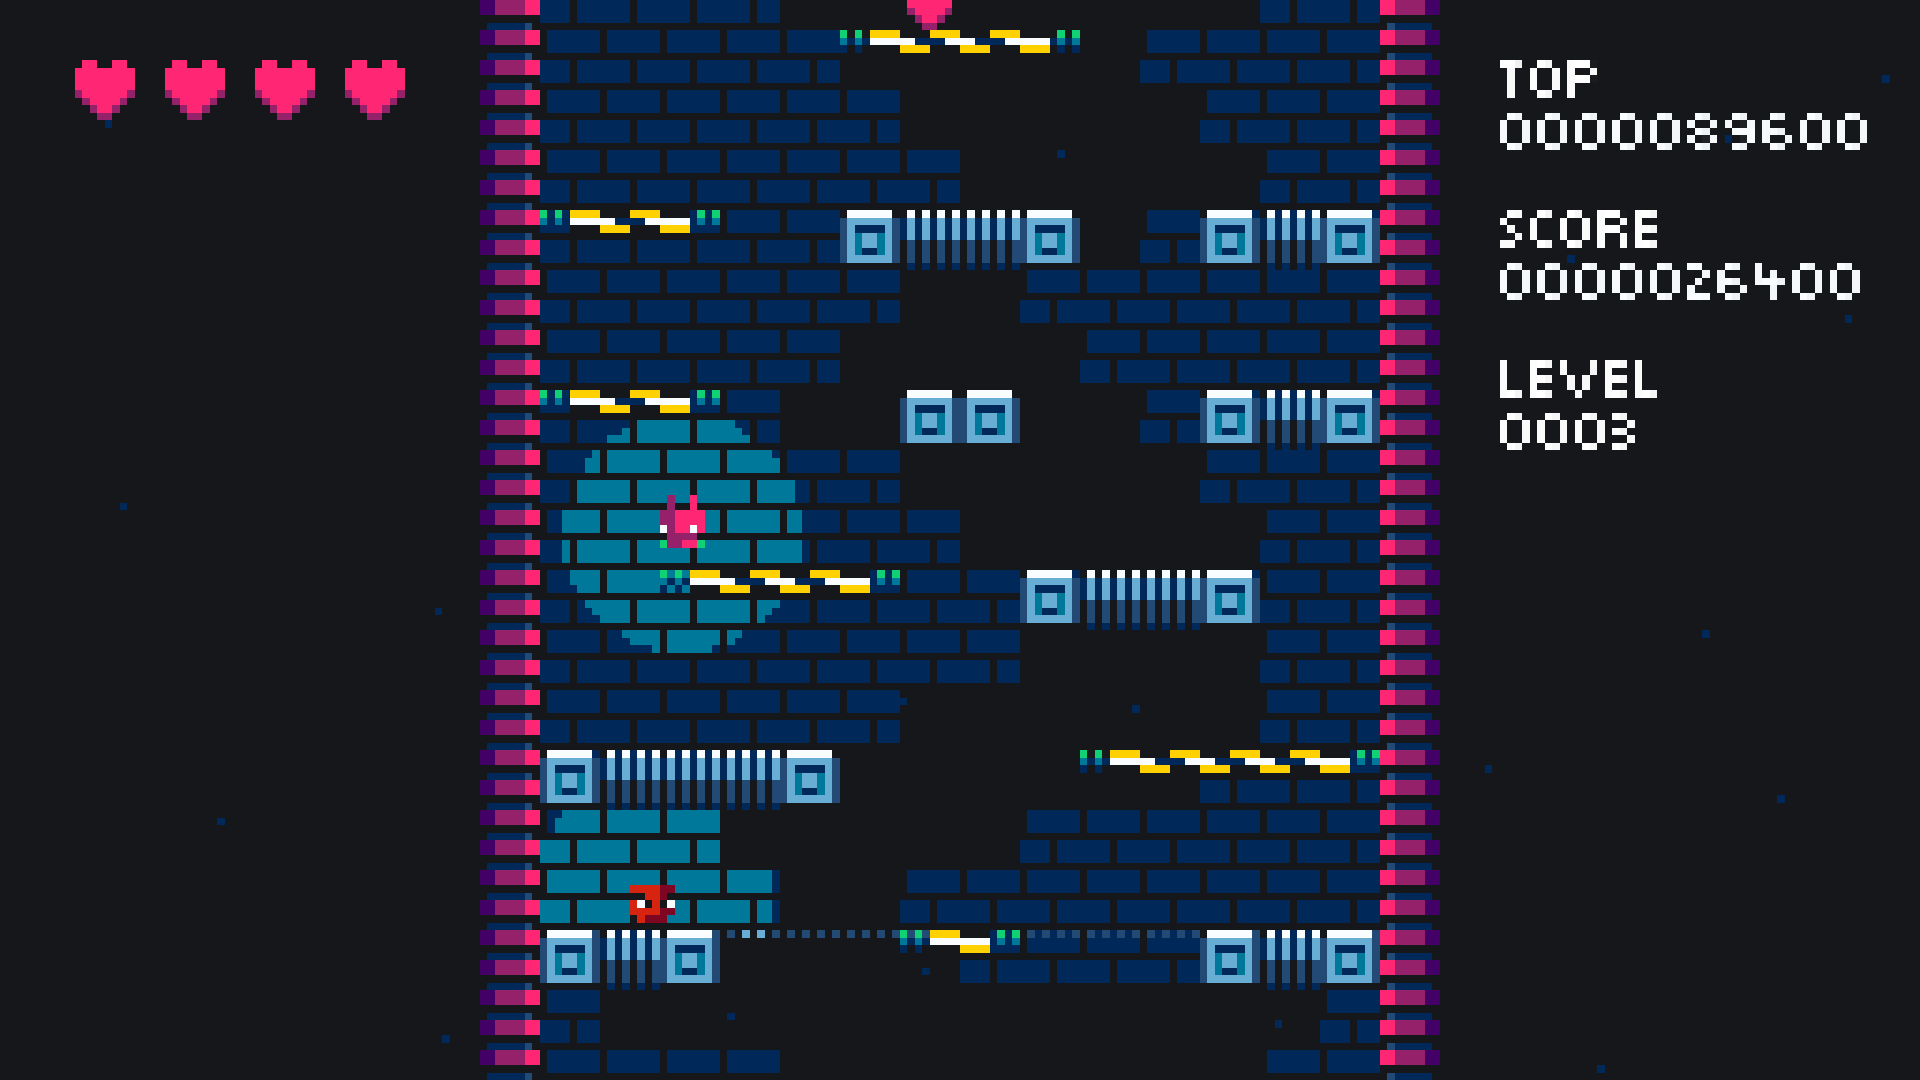
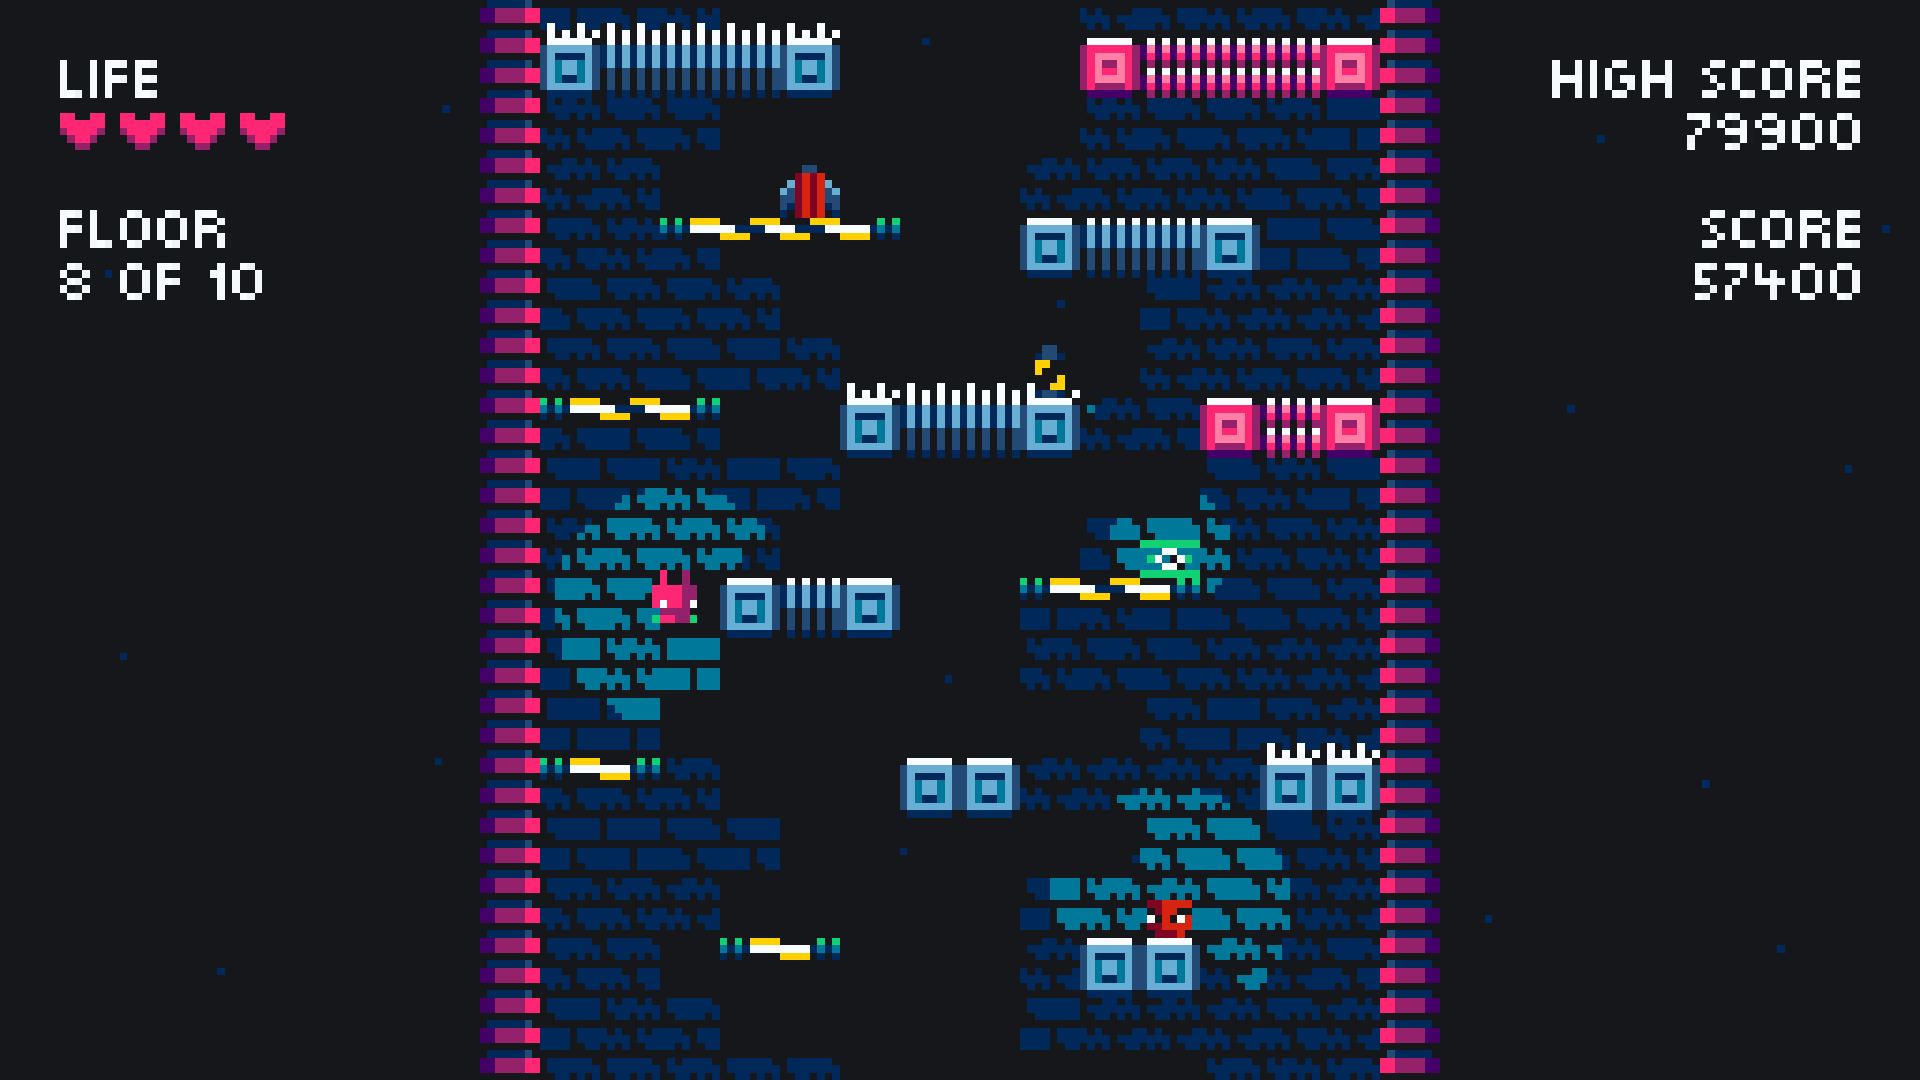
Add v1.0.0 post. Update DROID7 description

diff --git a/content/blog/00018-droid7-v100/index.eo.md b/content/blog/00018-droid7-v100/index.eo.md
@@ -1,0 +1,24 @@
+---
+title: DROID7 V1.0.0
+date: 2020-11-02T01:29:03-03:00
+description: Nun DROID7 devas batali kontraŭ sia kreinto por sia libereco
+tags: [droid7, pikselarto, platforma]
+authors: [juancolacelli]
+---
+
+[DROID7]({{< ref "/games/droid7" >}}) estis *senfina ludo* ekde la komenco, sed nun ĝi havas limigitajn 10 etaĝojn de malfacileco, kaj batalon kontraŭ ĝia kreinto (Dok).
+
+[DROID7]({{< ref "/games/droid7" >}}) 1.0.0 versio havas la jenanjn ludon ŝanĝojn:
+
+Ludado
+
+* Ĝi ne plu estas senfina ludo
+* Etaĝo 10 estas la maksimuma etaĝo
+* Post kiam vi forlasis la konstruaĵon, **vi batalos kontraŭ kreinto de DROID7 (Dok)**
+
+Ĝeneralaj ŝanĝoj
+
+* Ludo tute **tradukita al la hispana kaj Esperanto**
+* Nova ŝprucekrano estis aldonita al la ludo
+* Kredita ekrano estis aldonita
+* Pluraj cimsolvoj

diff --git a/content/blog/00018-droid7-v100/index.es.md b/content/blog/00018-droid7-v100/index.es.md
@@ -1,0 +1,24 @@
+---
+title: DROID7 V1.0.0
+date: 2020-11-02T01:29:03-03:00
+description: Ahora DROID7 tiene que pelear contra su creador por su libertad
+tags: [droid7, pixelart, plataforma]
+authors: [juancolacelli]
+---
+
+[DROID7]({{< ref "/games/droid7" >}}) ha sido un _videojuego infinito_ desde el principio, pero ahora tiene un límite de 10 pisos de dificulta, y una pelea contra su creaodr (Doc).
+
+[DROID7]({{< ref "/games/droid7" >}}) 1.0.0 cuenta con los siguientes cambios:
+
+Juego
+
+* Ya no es un juego sin fin
+* El piso 10 es el máximo
+* Una vez que sales del edificio, deberás **pelear contra el creador de DROID7 (Doc)**
+
+Cambios generales
+
+* Juego completamente **traducido a Español y Esperanto**
+* Nueva pantalla de inicio
+* Se agregó la pantalla de créditos
+* Severos arreglos de errores

diff --git a/content/blog/00018-droid7-v100/index.en.md b/content/blog/00018-droid7-v100/index.en.md
@@ -1,0 +1,24 @@
+---
+title: DROID7 V1.0.0
+date: 2020-11-02T01:29:03-03:00
+description: Now DROID7 has to fight versus its creator for its freedom
+tags: [droid7, pixelart, platformer]
+authors: [juancolacelli]
+---
+
+[DROID7]({{< ref "/games/droid7" >}}) has been an _endless game_ since the beginning, but now it’s limited 10 floors of difficulty, and a fight versus its creator (Doc).
+
+[DROID7]({{< ref "/games/droid7" >}}) 1.0.0 release has the following game changes:
+
+Gameplay
+
+* It’s not an endless game anymore
+* Floor 10 is the maximum floor
+* Once you left the building you will **fight versus DROID7 creator (Doc)**
+
+General changes
+
+* Game completely **translated to Spanish and Esperanto**
+* New splash screen has been added to the game
+* Credits screen has been added
+* Several bug fixes

diff --git a/content/games/droid7/index.es.md b/content/games/droid7/index.es.md
@@ -7,7 +7,7 @@ tags: [droid7]
 url: /es/videojuegos/droid7
 ---
 
-**DROID7** es un **juego de plataformas infinito**, en el que hay que saltar hacia arriba en una torre generada sin fin mientras un rayo láser te persigue desde abajo.
+**DROID7** es un **juego de plataformas**, en el que hay que saltar hacia arriba en una torre generada mientras un rayo láser te persigue desde abajo.
 
 Cuanto más alto vas, más rápido se vuelve, y no pasa mucho tiempo antes de que desaparezcan (y reaparezcan) plataformas y picos que se introducen para hacer tu vida más difícil.
 

diff --git a/content/games/droid7/index.en.md b/content/games/droid7/index.en.md
@@ -6,7 +6,7 @@ description: Escape or die, it's your choice
 tags: [droid7]
 ---
 
-**DROID7** is an **infinite pixel platformer**, jump your way up on endlessly generated tower while a laser beam chases you from below.
+**DROID7** is an **platformer**, jump your way up on a generated tower while a laser beam chases you from below.
 
 The higher you go, the faster it gets, and isn't long before disappearing (and reappearing) platforms and spikes are introduced to make your life harder.
 

diff --git a/content/games/droid7/index.eo.md b/content/games/droid7/index.eo.md
@@ -7,7 +7,7 @@ tags: [droid7]
 url: /eo/videoludoj/droid7
 ---
 
-**DROID7** estas **senfina piksela platformo**, saltu sur senfine generita turo dum lasera radio persekutas vin de sube.
+**DROID7** estas **platformo**, saltu sur generita turo dum lasera radio persekutas vin de sube.
 
 Ju pli vi altas, des pli rapide ĝi fariĝas, kaj ne longe antaŭ malaperi (kaj reaperi) platformoj kaj pikiloj estas enkondukitaj por malfaciligi vian vivon.
 
